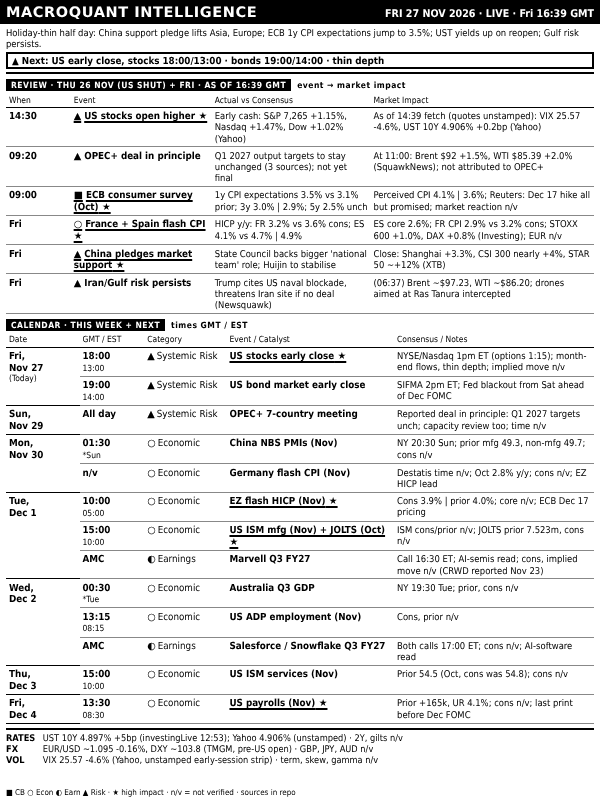
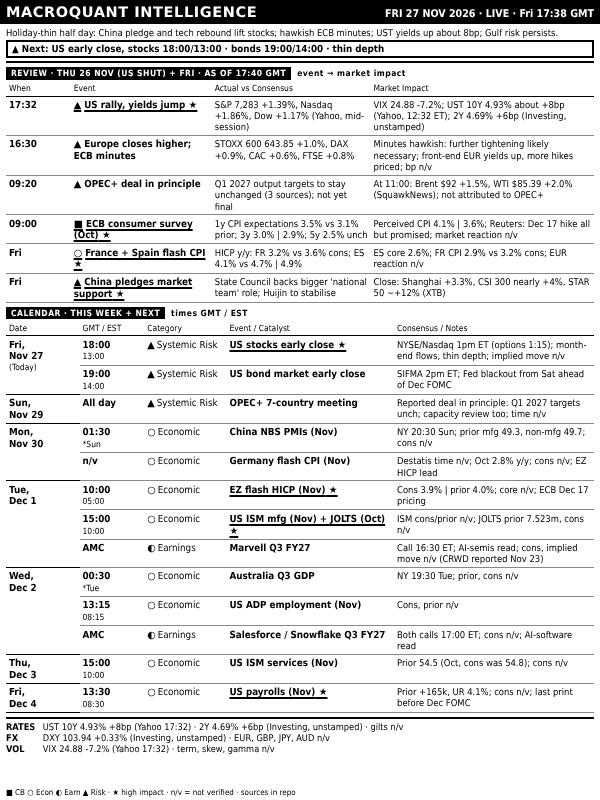
dashboard: FRI 27 NOV 2026 LIVE 17:38
Claude-Session: https://claude.ai/code/session_016SJqa7HBjUE6tMvLcERWEq

Changed region(s): [[0.0, 0.0, 0.99, 0.9688], [0.0, 0.7188, 0.06, 0.75]]

diff --git a/out/dashboard.html b/out/dashboard.html
@@ -38,12 +38,12 @@ table.bd{border-collapse:collapse;width:100%;table-layout:fixed;margin-top:1px}
 </style></head><body>
 <div id="root">
  <div class="hdr"><span class="t">MACROQUANT INTELLIGENCE</span>
-  <span class="r">FRI 27 NOV 2026 · LIVE · Fri 16:39 GMT</span></div>
- <div class="ban"><div class="rg">Holiday-thin half day: China support pledge lifts Asia, Europe; ECB 1y CPI expectations jump to 3.5%; UST yields up on reopen; Gulf risk persists.</div><div class="al">▲ Next: US early close, stocks 18:00/13:00 · bonds 19:00/14:00 · thin depth</div></div>
- <div class="sl"><span>REVIEW · THU 26 NOV (US SHUT) + FRI · AS OF 16:39 GMT</span>event → market impact</div><table class="bd rv"><colgroup><col style="width:11%"><col style="width:24%"><col style="width:27%"><col></colgroup><tr><th>When</th><th>Event</th><th>Actual vs Consensus</th><th>Market Impact</th></tr><tr class="h"><td class="tm"><b>14:30</b></td><td class="ev"><i>▲</i>US stocks open higher</td><td class="ac">Early cash: S&amp;P 7,265 +1.15%, Nasdaq +1.47%, Dow +1.02% (Yahoo)</td><td class="nt">As of 14:39 fetch (quotes unstamped): VIX 25.57 -4.6%, UST 10Y 4.906% +0.2bp (Yahoo)</td></tr><tr><td class="tm"><b>09:20</b></td><td class="ev"><i>▲</i>OPEC+ deal in principle</td><td class="ac">Q1 2027 output targets to stay unchanged (3 sources); not yet final</td><td class="nt">At 11:00: Brent $92 +1.5%, WTI $85.39 +2.0% (SquawkNews); not attributed to OPEC+</td></tr><tr class="h"><td class="tm"><b>09:00</b></td><td class="ev"><i>■</i>ECB consumer survey (Oct)</td><td class="ac">1y CPI expectations 3.5% vs 3.1% prior; 3y 3.0% | 2.9%; 5y 2.5% unch</td><td class="nt">Perceived CPI 4.1% | 3.6%; Reuters: Dec 17 hike all but promised; market reaction n/v</td></tr><tr class="h"><td class="tm"><b>Fri</b></td><td class="ev"><i>○</i>France + Spain flash CPI</td><td class="ac">HICP y/y: FR 3.2% vs 3.6% cons; ES 4.1% vs 4.7% | 4.9%</td><td class="nt">ES core 2.6%; FR CPI 2.9% vs 3.2% cons; STOXX 600 +1.0%, DAX +0.8% (Investing); EUR n/v</td></tr><tr class="h"><td class="tm"><b>Fri</b></td><td class="ev"><i>▲</i>China pledges market support</td><td class="ac">State Council backs bigger 'national team' role; Huijin to stabilise</td><td class="nt">Close: Shanghai +3.3%, CSI 300 nearly +4%, STAR 50 ~+12% (XTB)</td></tr><tr><td class="tm"><b>Fri</b></td><td class="ev"><i>▲</i>Iran/Gulf risk persists</td><td class="ac">Trump cites US naval blockade, threatens Iran site if no deal (Newsquawk)</td><td class="nt">(06:37) Brent ~$97.23, WTI ~$86.20; drones aimed at Ras Tanura intercepted</td></tr></table>
+  <span class="r">FRI 27 NOV 2026 · LIVE · Fri 17:38 GMT</span></div>
+ <div class="ban"><div class="rg">Holiday-thin half day: China pledge and tech rebound lift stocks; hawkish ECB minutes; UST yields up about 8bp; Gulf risk persists.</div><div class="al">▲ Next: US early close, stocks 18:00/13:00 · bonds 19:00/14:00 · thin depth</div></div>
+ <div class="sl"><span>REVIEW · THU 26 NOV (US SHUT) + FRI · AS OF 17:40 GMT</span>event → market impact</div><table class="bd rv"><colgroup><col style="width:11%"><col style="width:24%"><col style="width:27%"><col></colgroup><tr><th>When</th><th>Event</th><th>Actual vs Consensus</th><th>Market Impact</th></tr><tr class="h"><td class="tm"><b>17:32</b></td><td class="ev"><i>▲</i>US rally, yields jump</td><td class="ac">S&amp;P 7,283 +1.39%, Nasdaq +1.86%, Dow +1.17% (Yahoo, mid-session)</td><td class="nt">VIX 24.88 -7.2%; UST 10Y 4.93% about +8bp (Yahoo, 12:32 ET); 2Y 4.69% +6bp (Investing, unstamped)</td></tr><tr><td class="tm"><b>16:30</b></td><td class="ev"><i>▲</i>Europe closes higher; ECB minutes</td><td class="ac">STOXX 600 643.85 +1.0%, DAX +0.9%, CAC +0.6%, FTSE +0.8%</td><td class="nt">Minutes hawkish: further tightening likely necessary; front-end EUR yields up, more hikes priced; bp n/v</td></tr><tr><td class="tm"><b>09:20</b></td><td class="ev"><i>▲</i>OPEC+ deal in principle</td><td class="ac">Q1 2027 output targets to stay unchanged (3 sources); not yet final</td><td class="nt">At 11:00: Brent $92 +1.5%, WTI $85.39 +2.0% (SquawkNews); not attributed to OPEC+</td></tr><tr class="h"><td class="tm"><b>09:00</b></td><td class="ev"><i>■</i>ECB consumer survey (Oct)</td><td class="ac">1y CPI expectations 3.5% vs 3.1% prior; 3y 3.0% | 2.9%; 5y 2.5% unch</td><td class="nt">Perceived CPI 4.1% | 3.6%; Reuters: Dec 17 hike all but promised; market reaction n/v</td></tr><tr class="h"><td class="tm"><b>Fri</b></td><td class="ev"><i>○</i>France + Spain flash CPI</td><td class="ac">HICP y/y: FR 3.2% vs 3.6% cons; ES 4.1% vs 4.7% | 4.9%</td><td class="nt">ES core 2.6%; FR CPI 2.9% vs 3.2% cons; EUR reaction n/v</td></tr><tr class="h"><td class="tm"><b>Fri</b></td><td class="ev"><i>▲</i>China pledges market support</td><td class="ac">State Council backs bigger 'national team' role; Huijin to stabilise</td><td class="nt">Close: Shanghai +3.3%, CSI 300 nearly +4%, STAR 50 ~+12% (XTB)</td></tr></table>
  <div class="sl"><span>CALENDAR · THIS WEEK + NEXT</span>times GMT / EST</div>
  <table class="bd"><colgroup><col style="width:12.5%"><col style="width:11%"><col style="width:14%"><col style="width:28.5%"><col></colgroup><tr><th>Date</th><th>GMT / EST</th><th>Category</th><th>Event / Catalyst</th><th>Consensus / Notes</th></tr><tr class="g0 h"><td class="dt" rowspan="2">Fri,<br>Nov&nbsp;27<span class="tg">(Today)</span></td><td class="tm"><b>18:00</b><span>13:00</span></td><td class="ct"><i>▲</i>Systemic Risk</td><td class="ev">US stocks early close</td><td class="nt">NYSE/Nasdaq 1pm ET (options 1:15); month-end flows, thin depth; implied move n/v</td></tr><tr class=""><td class="tm"><b>19:00</b><span>14:00</span></td><td class="ct"><i>▲</i>Systemic Risk</td><td class="ev">US bond market early close</td><td class="nt">SIFMA 2pm ET; Fed blackout from Sat ahead of Dec FOMC</td></tr><tr class="g0"><td class="dt" rowspan="1">Sun,<br>Nov&nbsp;29</td><td class="tm"><b>All day</b></td><td class="ct"><i>▲</i>Systemic Risk</td><td class="ev">OPEC+ 7-country meeting</td><td class="nt">Reported deal in principle: Q1 2027 targets unch; capacity review too; time n/v</td></tr><tr class="g0"><td class="dt" rowspan="2">Mon,<br>Nov&nbsp;30</td><td class="tm"><b>01:30</b><span>*Sun</span></td><td class="ct"><i>○</i>Economic</td><td class="ev">China NBS PMIs (Nov)</td><td class="nt">NY 20:30 Sun; prior mfg 49.3, non-mfg 49.7; cons n/v</td></tr><tr class=""><td class="tm"><b>n/v</b></td><td class="ct"><i>○</i>Economic</td><td class="ev">Germany flash CPI (Nov)</td><td class="nt">Destatis time n/v; Oct 2.8% y/y; cons n/v; EZ HICP lead</td></tr><tr class="g0 h"><td class="dt" rowspan="3">Tue,<br>Dec&nbsp;1</td><td class="tm"><b>10:00</b><span>05:00</span></td><td class="ct"><i>○</i>Economic</td><td class="ev">EZ flash HICP (Nov)</td><td class="nt">Cons 3.9% | prior 4.0%; core n/v; ECB Dec 17 pricing</td></tr><tr class="h"><td class="tm"><b>15:00</b><span>10:00</span></td><td class="ct"><i>○</i>Economic</td><td class="ev">US ISM mfg (Nov) + JOLTS (Oct)</td><td class="nt">ISM cons/prior n/v; JOLTS prior 7.523m, cons n/v</td></tr><tr class=""><td class="tm"><b>AMC</b></td><td class="ct"><i>◐</i>Earnings</td><td class="ev">Marvell Q3 FY27</td><td class="nt">Call 16:30 ET; AI-semis read; cons, implied move n/v (CRWD reported Nov 23)</td></tr><tr class="g0"><td class="dt" rowspan="3">Wed,<br>Dec&nbsp;2</td><td class="tm"><b>00:30</b><span>*Tue</span></td><td class="ct"><i>○</i>Economic</td><td class="ev">Australia Q3 GDP</td><td class="nt">NY 19:30 Tue; prior, cons n/v</td></tr><tr class=""><td class="tm"><b>13:15</b><span>08:15</span></td><td class="ct"><i>○</i>Economic</td><td class="ev">US ADP employment (Nov)</td><td class="nt">Cons, prior n/v</td></tr><tr class=""><td class="tm"><b>AMC</b></td><td class="ct"><i>◐</i>Earnings</td><td class="ev">Salesforce / Snowflake Q3 FY27</td><td class="nt">Both calls 17:00 ET; cons n/v; AI-software read</td></tr><tr class="g0"><td class="dt" rowspan="1">Thu,<br>Dec&nbsp;3</td><td class="tm"><b>15:00</b><span>10:00</span></td><td class="ct"><i>○</i>Economic</td><td class="ev">US ISM services (Nov)</td><td class="nt">Prior 54.5 (Oct, cons was 54.8); cons n/v</td></tr><tr class="g0 h"><td class="dt" rowspan="1">Fri,<br>Dec&nbsp;4</td><td class="tm"><b>13:30</b><span>08:30</span></td><td class="ct"><i>○</i>Economic</td><td class="ev">US payrolls (Nov)</td><td class="nt">Prior +165k, UR 4.1%; cons n/v; last print before Dec FOMC</td></tr></table>
- <div class="lv"><div><b>RATES</b>UST 10Y 4.897% +5bp (investingLive 12:53); Yahoo 4.906% (unstamped) · 2Y, gilts n/v</div><div><b>FX</b>EUR/USD ~1.095 -0.16%, DXY ~103.8 (TMGM, pre-US open) · GBP, JPY, AUD n/v</div><div><b>VOL</b>VIX 25.57 -4.6% (Yahoo, unstamped early-session strip) · term, skew, gamma n/v</div></div>
+ <div class="lv"><div><b>RATES</b>UST 10Y 4.93% +8bp (Yahoo 17:32) · 2Y 4.69% +6bp (Investing, unstamped) · gilts n/v</div><div><b>FX</b>DXY 103.94 +0.33% (Investing, unstamped) · EUR, GBP, JPY, AUD n/v</div><div><b>VOL</b>VIX 24.88 -7.2% (Yahoo 17:32) · term, skew, gamma n/v</div></div>
 </div>
 <div class="foot">■ CB ○ Econ ◐ Earn ▲ Risk · ★ high impact · n/v = not verified · sources in repo</div>
 </body></html>
